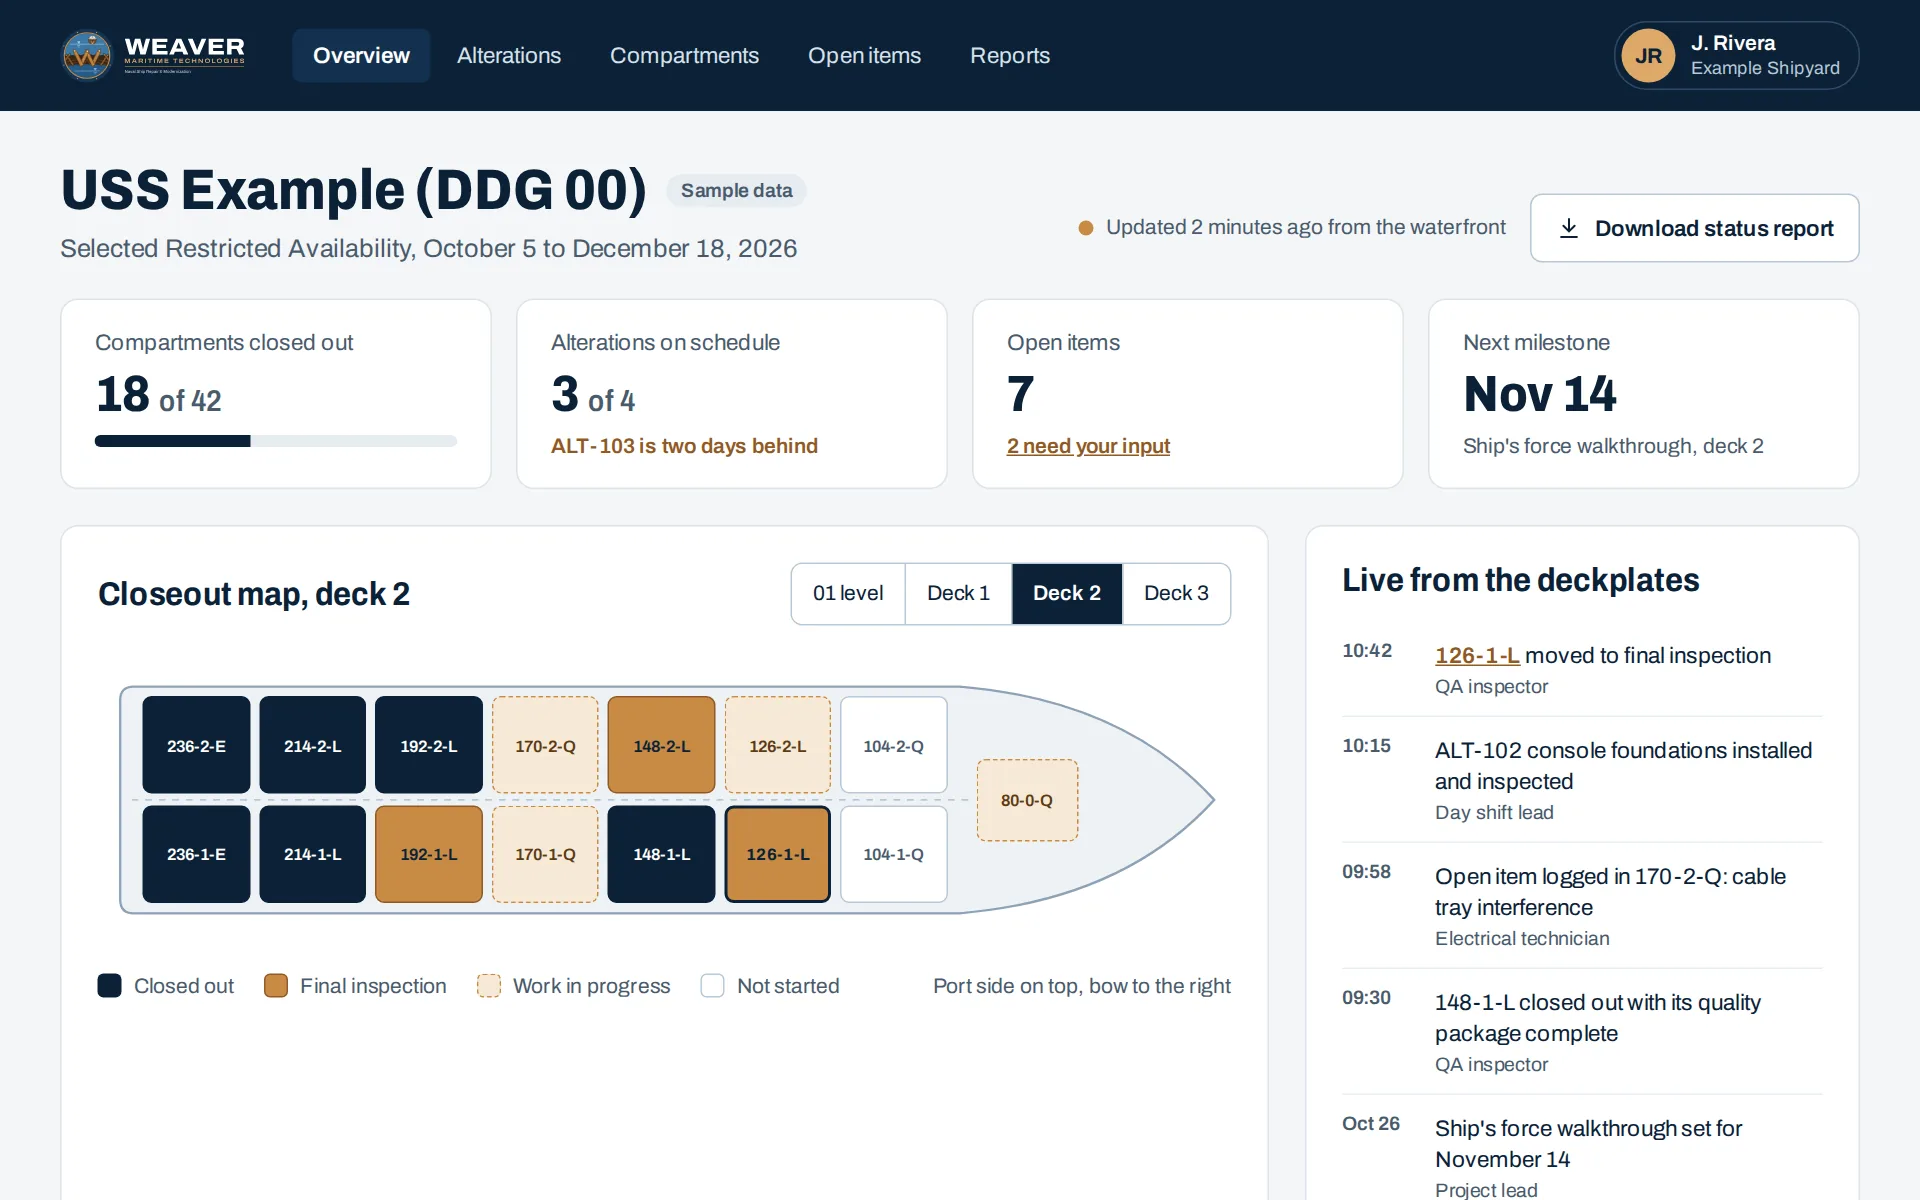
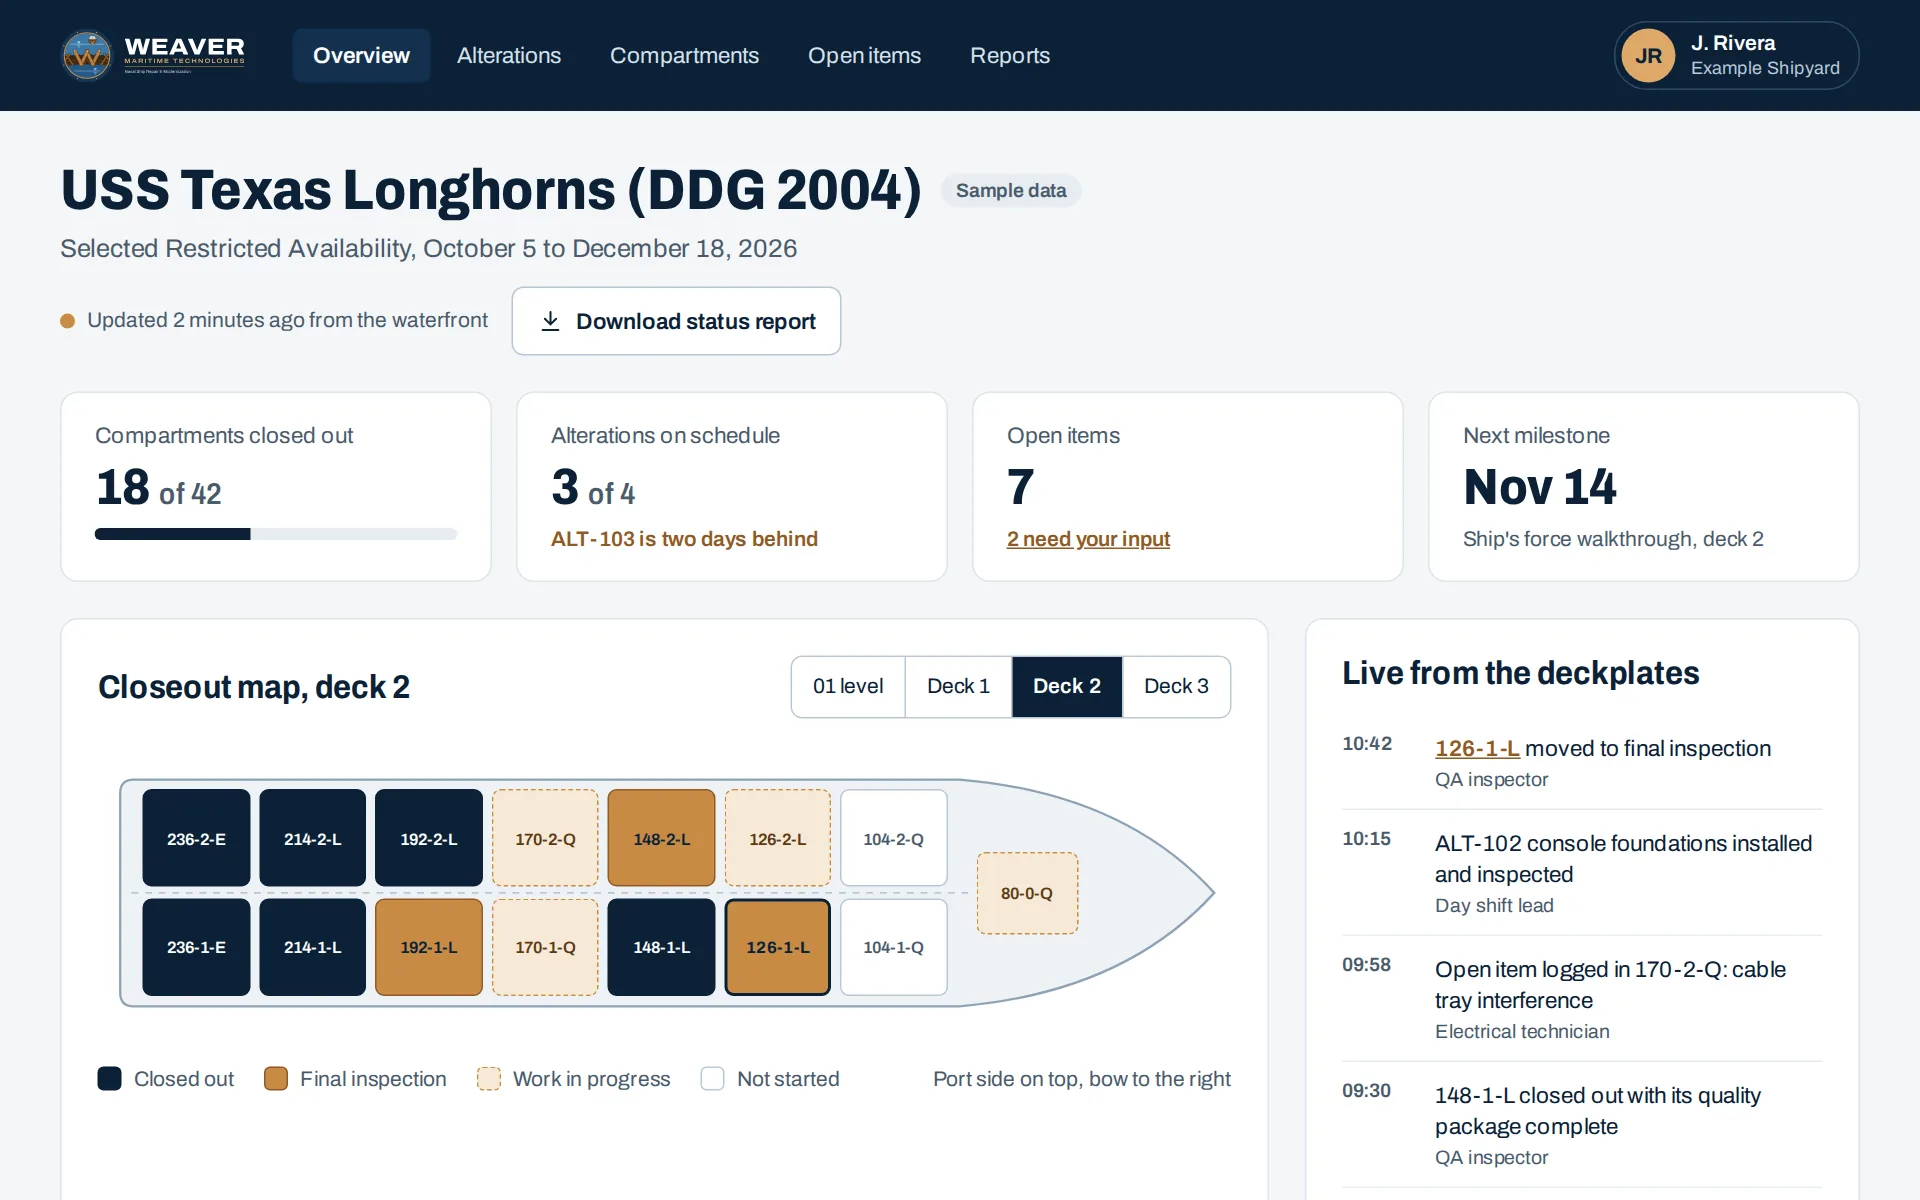
Add files via upload

diff --git a/open-items.html b/open-items.html
@@ -57,7 +57,7 @@ a{color:#8F5A25}a:hover{color:#0B2136}
           <h1 style="margin: 0; font-size: 38px; line-height: 1.1; font-weight: 800; font-stretch: 88%">Open items</h1>
           <span style="padding: 4px 10px; border-radius: 999px; background: #E6ECF2; color: #4A5B6C; font-size: 13px; font-weight: 600">Sample data</span>
         </div>
-        <p style="margin: 0; font-size: 17px; color: #4A5B6C">USS Example (DDG 00), 7 open, 2 waiting on your answer</p>
+        <p style="margin: 0; font-size: 17px; color: #4A5B6C">USS Texas Longhorns (DDG 2004), 7 open, 2 waiting on your answer</p>
       </div>
       <a href="reports.html" style="display: flex; align-items: center; gap: 8px; min-height: 44px; padding: 0 16px; border-radius: 8px; border: 1px solid #B9C8D6; background: #FFFFFF; color: #0B2136; font-size: 15px; font-weight: 600; text-decoration: none">
         <svg width="18" height="18" viewBox="0 0 24 24" fill="none" stroke="#0B2136" stroke-width="1.8" stroke-linecap="round" stroke-linejoin="round" aria-hidden="true"><path d="M12 4v11M7 10l5 5 5-5M5 20h14"></path></svg>

diff --git a/dashboard.html b/dashboard.html
@@ -54,7 +54,7 @@ a{color:#8F5A25}a:hover{color:#0B2136}
     <div style="display: flex; flex-wrap: wrap; align-items: flex-end; justify-content: space-between; gap: 16px 24px">
       <div style="display: flex; flex-direction: column; gap: 8px">
         <div style="display: flex; align-items: center; gap: 12px; flex-wrap: wrap">
-          <h1 style="margin: 0; font-size: 38px; line-height: 1.1; font-weight: 800; font-stretch: 88%">USS Example (DDG 00)</h1>
+          <h1 style="margin: 0; font-size: 38px; line-height: 1.1; font-weight: 800; font-stretch: 88%">USS Texas Longhorns (DDG 2004)</h1>
           <span style="padding: 4px 10px; border-radius: 999px; background: #E6ECF2; color: #4A5B6C; font-size: 13px; font-weight: 600">Sample data</span>
         </div>
         <p style="margin: 0; font-size: 17px; color: #4A5B6C">Selected Restricted Availability, October 5 to December 18, 2026</p>

diff --git a/alterations.html b/alterations.html
@@ -56,7 +56,7 @@ a{color:#8F5A25}a:hover{color:#0B2136}
         <h1 style="margin: 0; font-size: 38px; line-height: 1.1; font-weight: 800; font-stretch: 88%">Alteration schedule</h1>
         <span style="padding: 4px 10px; border-radius: 999px; background: #E6ECF2; color: #4A5B6C; font-size: 13px; font-weight: 600">Sample data</span>
       </div>
-      <p style="margin: 0; font-size: 17px; color: #4A5B6C">USS Example (DDG 00), October 5 to December 18, 2026</p>
+      <p style="margin: 0; font-size: 17px; color: #4A5B6C">USS Texas Longhorns (DDG 2004), October 5 to December 18, 2026</p>
     </div>
 
     <section aria-labelledby="timeline-title" style="background: #FFFFFF; border: 1px solid #DCE3EA; border-radius: 12px; padding: 24px; display: flex; flex-direction: column; gap: 16px">

diff --git a/compartment.html b/compartment.html
@@ -52,7 +52,7 @@ a{color:#8F5A25}a:hover{color:#0B2136}
   <main style="max-width: 1280px; margin: 0 auto; box-sizing: border-box; padding: 28px 40px 48px; display: flex; flex-direction: column; gap: 24px">
 
     <nav aria-label="Breadcrumb" style="font-size: 15px; color: #4A5B6C; display: flex; flex-wrap: wrap; align-items: center; gap: 8px">
-      <a href="dashboard.html" style="font-weight: 600">USS Example (DDG 00)</a>
+      <a href="dashboard.html" style="font-weight: 600">USS Texas Longhorns (DDG 2004)</a>
       <span aria-hidden="true">/</span>
       <span>Deck 2</span>
       <span aria-hidden="true">/</span>

diff --git a/reports.html b/reports.html
@@ -56,7 +56,7 @@ a{color:#8F5A25}a:hover{color:#0B2136}
         <h1 style="margin: 0; font-size: 38px; line-height: 1.1; font-weight: 800; font-stretch: 88%">Reports</h1>
         <span style="padding: 4px 10px; border-radius: 999px; background: #E6ECF2; color: #4A5B6C; font-size: 13px; font-weight: 600">Sample data</span>
       </div>
-      <p style="margin: 0; font-size: 17px; color: #4A5B6C">USS Example (DDG 00)</p>
+      <p style="margin: 0; font-size: 17px; color: #4A5B6C">USS Texas Longhorns (DDG 2004)</p>
     </div>
 
     <div style="display: flex; flex-wrap: wrap; gap: 24px; align-items: flex-start">
